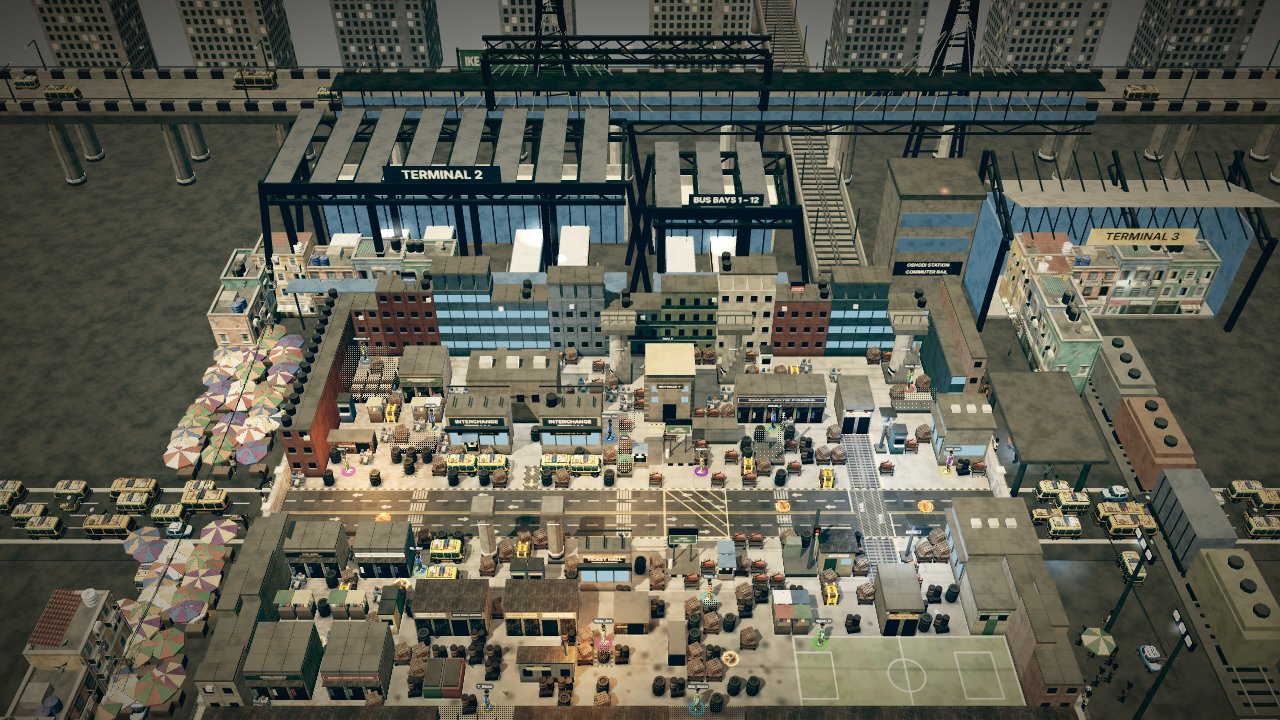
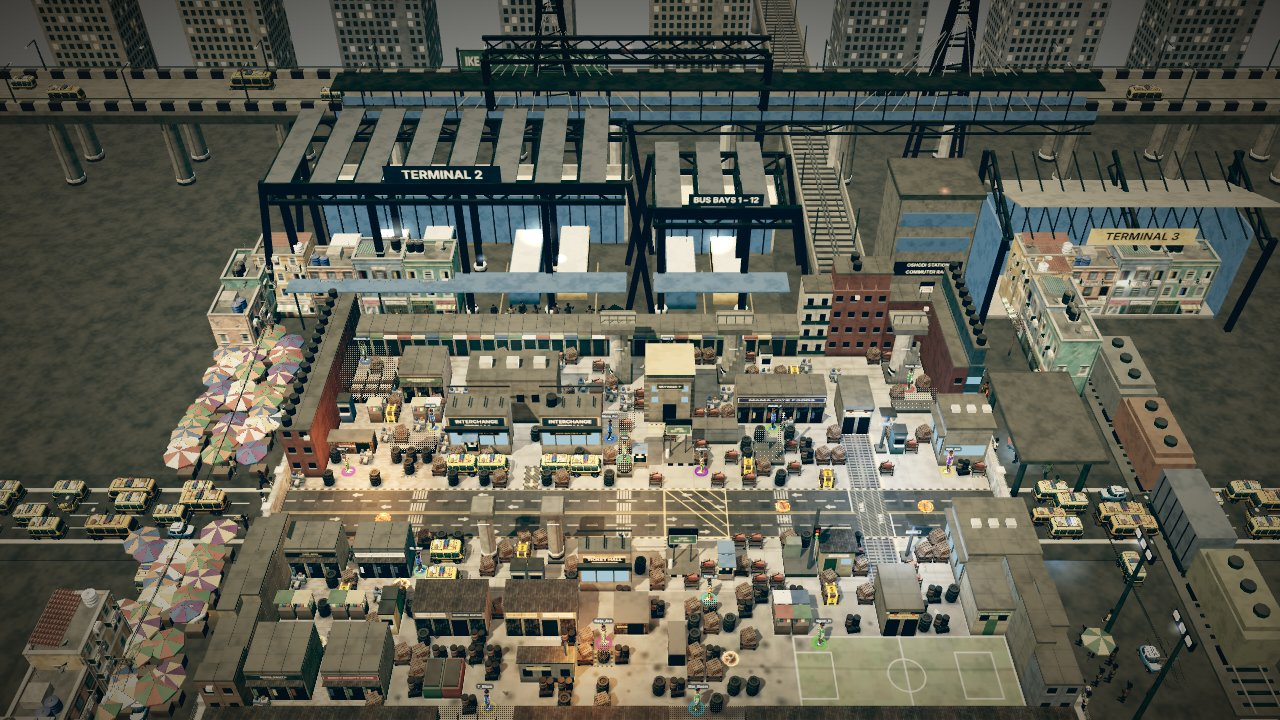
Oshodi: keep the terminals in view (low north arcade); prove the road wave is the lethal mechanic
The tall north perimeter blocks that hid the terminals become a low 2.3 m trading arcade
(new cover kind, same '#' tiles; sim unchanged). Ambient loops stay scenery; new sim tests
show the main-road traffic wave is what hurts a fighter who stays on its lane (decision LA16).

Claude-Session: https://claude.ai/code/session_01QeTP4zp3JkQy6NiZSVrton

diff --git a/tests/rumble-oshodi.test.ts b/tests/rumble-oshodi.test.ts
@@ -680,3 +680,43 @@ describe('Oshodi Metropolis: future boss slot', () => {
       expect(getArena(other).futureBoss, other).toBeUndefined();
   });
 });
+
+describe('Oshodi Metropolis: the main-road traffic wave is the weaponised road (ambient loops are scenery)', () => {
+  /** Advances until a road traffic wave is warned. */
+  function untilTraffic(s: GameState, max = 90 * TPS): StageEvent {
+    for (let i = 0; i < max; i++)
+      for (const e of tick(s, {}))
+        if (e.type === 'stageWarning' && e.event.style === 'traffic') return e.event;
+    throw new Error('no traffic warning');
+  }
+
+  it('hurts whoever stays on its lane after the warning, spares a neighbour on the pavement, and lets a mover live', () => {
+    for (const seed of [2, 5, 8]) {
+      const s = sandbox({ arenaId: a.id, players: 3, stage: true, seed });
+      put(s, 0, 3, 24);
+      put(s, 1, 3, 25);
+      put(s, 2, 41, 5);
+      const ev = untilTraffic(s);
+      expect(ev.startTick - ev.warnTick).toBeGreaterThanOrEqual(Math.round(2 * TPS));
+      const mid = ev.tiles[Math.floor(ev.tiles.length / 2)]!;
+      const lx = mid % W;
+      const ly = Math.floor(mid / W);
+      expect(a.layout[ly]![lx]).toBe('=');
+      put(s, 0, lx, ly);
+      put(s, 1, lx, ly === 15 || ly === 16 ? 14 : 19); // the pavement beside the road
+      for (let i = 0; i < 20 * TPS && s.stage.events.some((e) => e.id === ev.id); i++) tick(s, {});
+      expect(s.players[0]!.alive, `on the lane, seed ${seed}`).toBe(false);
+      expect(s.players[1]!.alive, `on the pavement, seed ${seed}`).toBe(true);
+    }
+  });
+
+  it('never lets an ambient vehicle touch the sim: the render plan keeps every loop off the board', () => {
+    // the combat vehicles are sim state only; ambient routes are validated against the board in
+    // tests/render/oshodi-metro-env.test.ts. Here: the sim exposes no ambient vehicle at all.
+    const s = sandbox({ arenaId: a.id, players: 2, stage: true, seed: 1 });
+    for (let i = 0; i < 20 * TPS; i++) tick(s, {});
+    expect(s.stage.events.every((e) => ['traffic', 'danfo', 'train', 'merch'].includes(e.style ?? ''))).toBe(
+      true,
+    );
+  });
+});

diff --git a/src/render/arenas/oshodiMetroCoverMap.ts b/src/render/arenas/oshodiMetroCoverMap.ts
@@ -33,7 +33,8 @@ export type OshodiCoverKind =
   | 'workshop' // Y: the Cappa workshops
   | 'skip' // J: scrap skips
   | 'pavilion' // V: the Cappa Ground pavilion
-  | 'genHouse'; // X: the works generator house
+  | 'genHouse' // X: the works generator house
+  | 'arcade'; // F: the low trading arcade along the terminal side of the north edge (keeps the terminals in view)
 
 export const OSHODI_COVER_LETTERS: Readonly<Record<string, OshodiCoverKind>> = {
   Q: 'building',
@@ -59,12 +60,13 @@ export const OSHODI_COVER_LETTERS: Readonly<Record<string, OshodiCoverKind>> = {
   J: 'skip',
   V: 'pavilion',
   X: 'genHouse',
+  F: 'arcade',
 };
 
 /** One letter per tile of the 45 x 33 board ('.' = not cover). Rows align with the sim layout. */
 export const OSHODI_COVER: readonly string[] = [
-  'QQQQQQQQQQQQQQQQQQQQQQQQQQQQQQQQQQQQQQQQQQQQQ', // 0
-  'QQQQQQQQQQQQQQQQQQQQQQQQQQQQQQQQQQQQQQQQQQQQQ', // 1
+  'QQFFFFFFFFFFFFFFFFFFFFFFFFFFFFFFFFQQQQQQQQQQQ', // 0
+  'QQFFFFFFFFFFFFFFFFFFFFFFFFFFFFFFFFQQQQQQQQQQQ', // 1
   'QQ.........................................QQ', // 2
   'QQ............MM....PP......PP.K........PP.QQ', // 3
   'QQHHH.HHH...........PP......PP..........PP.QQ', // 4
@@ -179,4 +181,5 @@ export const OSHODI_COVER_REACH: Readonly<Record<OshodiCoverKind, number>> = {
   skip: 1,
   pavilion: 2,
   genHouse: 2,
+  arcade: 1,
 };

diff --git a/src/render/arenas/oshodiMetroCover.ts b/src/render/arenas/oshodiMetroCover.ts
@@ -285,6 +285,20 @@ function lockup(k: Kit, g: number, grp: OshodiCoverGroup): void {
   }
 }
 
+/** The low trading arcade (2.3 m): plaster stalls with a striped awning and a dark shutter, so the terminals behind stay in view. */
+function arcade(k: Kit, g: number, grp: OshodiCoverGroup): void {
+  for (const [x, y] of grp.tiles) {
+    const cx = k.wx(x);
+    const cz = k.wz(y);
+    box(k, g, k.concrete, 1, 2.3, 1, cx, 0, cz, pick(PLASTER, Math.floor(x / 2) + y));
+    box(k, g, k.concrete, 1.04, 0.1, 1.04, cx, 2.3, cz, CONCRETE_DARK);
+    if (y === grp.y1) {
+      box(k, g, k.paint, 0.8, 1.5, 0.05, cx, 0.1, cz + 0.5, 0x2a2e32);
+      box(k, g, k.paint, 1.0, 0.16, 0.34, cx, 1.9, cz + 0.6, pick(TARP, x));
+    }
+  }
+}
+
 function shop(k: Kit, g: number, grp: OshodiCoverGroup, n: number): void {
   const has = hasOf(grp);
   const wallC = pick(PLASTER, n * 2 + 3);
@@ -1004,6 +1018,9 @@ export function buildOshodiMetroCover(board: { width: number; height: number }):
         break;
       case 'pavilion':
         pavilion(k, g, grp);
+        break;
+      case 'arcade':
+        arcade(k, g, grp);
         break;
       case 'genHouse':
         genHouse(k, g, grp);

diff --git a/tests/render/oshodi-metro-cover.test.ts b/tests/render/oshodi-metro-cover.test.ts
@@ -38,13 +38,13 @@ describe('Oshodi cover map', () => {
     }
   });
 
-  it('draws the place as real objects: 23 families, big groups, no generic crate or pillar forest', () => {
+  it('draws the place as real objects: 24 families, big groups, no generic crate or pillar forest', () => {
     const groups = oshodiCoverGroups();
     const kinds = new Set(groups.map((g) => g.kind));
     // every family of the map is used, and the reach table covers each of them
     expect([...kinds].sort()).toEqual([...new Set(Object.values(OSHODI_COVER_LETTERS))].sort());
-    expect(kinds.size).toBe(23);
-    expect(Object.keys(OSHODI_COVER_REACH)).toHaveLength(23);
+    expect(kinds.size).toBe(24);
+    expect(Object.keys(OSHODI_COVER_REACH)).toHaveLength(24);
     expect([...kinds].some((k) => /crate|pillar/i.test(k))).toBe(false);
     // the mean group covers several tiles; single-tile groups are the exception (kiosks, columns, posts)
     const hard = groups.reduce((n, g) => n + g.tiles.length, 0);

diff --git a/docs/DECISIONS.md b/docs/DECISIONS.md
@@ -468,3 +468,4 @@ Source: _WAHALA Canonical Lagos City Rumble Map Build Bible v2_. Ojuelegba is un
 | LA13 | **Oshodi identity pass (visual).** The stage's backdrop is rebuilt from the 109 inspected references: two OPEN black-steel interchange terminals (deep roof truss frames on tall columns, skylit roof panels with gaps, a lit glass frontage at the back of the hall, painted bays with parked buses, a blue bay canopy; the first ring-drum attempt read as gasometers and was replaced), a Terminal 3 glass frontage under a sloping truss roof, a long covered truss skywalk on two cable-stayed lattice pylons with a big truss portal, a freight siding of grain and container wagons east of the board, a sea of trader umbrellas on the west edge and wide approach roads with lane dashes. All of it stands OFF the board (`oshodiMetroTerminal.ts`); the sim grid, spawns, districts and links are unchanged. The expressway deck and skyline moved 4-10 m north to make room. | `render/arenas/oshodiMetroTerminal.ts`, `oshodiMetroLandmarks.ts`, `tests/render/oshodi-metro-*.test.ts` |
 | LA14 | **Opt-in ambient-vehicle boost.** `StageEnvironment.boost` raises a tier's vehicle / people caps for one stage; the shared caps (`ENV_BUDGET`) and every other stage are unchanged. Oshodi uses it (medium 64 vehicles, high 96) so its roads read as bus-choked: four slow, bumper-to-bumper LOOPS (outer and inner, west and east: out one lane, U-turn at the far end, back the other) of danfos and buses beyond both mouths, at the top budget priority; the elevated deck traffic takes the leftover. Instanced vehicles add triangles, not draw calls (model count unchanged). Ambient traffic still never enters the board. | `render/env/types.ts`, `plan.ts`, `oshodiMetroEnv.ts`, test "opt-in budget boost" |
 | LA15 | **Main-road sweep cadence** (Oshodi data only): first wave 8 s (was 10), then every 5-7.5 s (was 6-9), warning still 2 s, so crossing the road is risky but possible. The railcar and bus-bay departures are unchanged; one lethal event at a time still holds. | `sim/arenas/rumbleOshodi.ts` |
+| LA16 | **Terminals stay in view; the weaponised road stays the sim's.** The tall north perimeter blocks (x 2-33, rows 0-1) that hid the terminals are replaced by a low 2.3 m trading arcade (cover kind `arcade`, letter F; same `#` tiles, sim unchanged), so Terminal 2 and the bay terminal read from the zoomed-out camera without raising any roof. Ambient loops stay scenery: they have no sim counterpart and never enter the board (a render-side collision would put game rules in `render` and drift from the deterministic sim). The road's danger is the existing telegraphed traffic wave on rows 15-18 (warned 2 s, lethal to whoever stays on the lane, never to a mover), now covered by tests; the lane warning is the lightweight hazard corridor. | `render/arenas/oshodiMetroCover*.ts`, `tests/rumble-oshodi.test.ts` |

diff --git a/docs/OSHODI_METROPOLIS.md b/docs/OSHODI_METROPOLIS.md
@@ -66,7 +66,7 @@ One lethal stage event at a time on this stage (`maxLethalEvents: 1`): the railc
 departure, and nothing runs once Wahala Crush starts or in the last 5 s. The hazard is rare (every 16-24 s), never
 random under a player (a fixed lane, announced), and never closes every escape.
 
-### 1.6 Permanent cover families (23, none a generic crate or pillar)
+### 1.6 Permanent cover families (24, none a generic crate or pillar; the 24th is the low north arcade)
 
 Interchange: terminal wings (lit glass band, name board), ticket hall, parked buses with route cards, bay shelters,
 huge canopy columns. Skywalk: round piers with a flared head, landing and stair, stair tower. Junction: kerb islands
@@ -203,7 +203,7 @@ the backdrop is rebuilt so the stage is unmistakable zoomed out:
 
 Playability is unchanged: nothing new is on the board; the cover re-skin (black-steel roof frames on the terminal
 wings, blue bay shelters) keeps every cover tile. Review shots: `7-review-zoomed-out-day.jpg`,
-`7b-review-zoomed-out-night.jpg` (draw calls 774 / 774, 3.12 / 3.12 M triangles, medium, software WebGL; the first identity pass was 764 / 777 and 2.74 / 2.80 M).
+`7b-review-zoomed-out-night.jpg` (draw calls 786 / 786, 3.17 / 3.17 M triangles, medium, software WebGL; before the terminal rework 764 / 777 and 2.74 / 2.80 M, before the arcade 774 / 774 and 3.12 M). The north edge is a low trading arcade so the terminals show (LA16).
 
 ## 4. Assumptions (the bible's "do not invent current conditions" rule)
 
